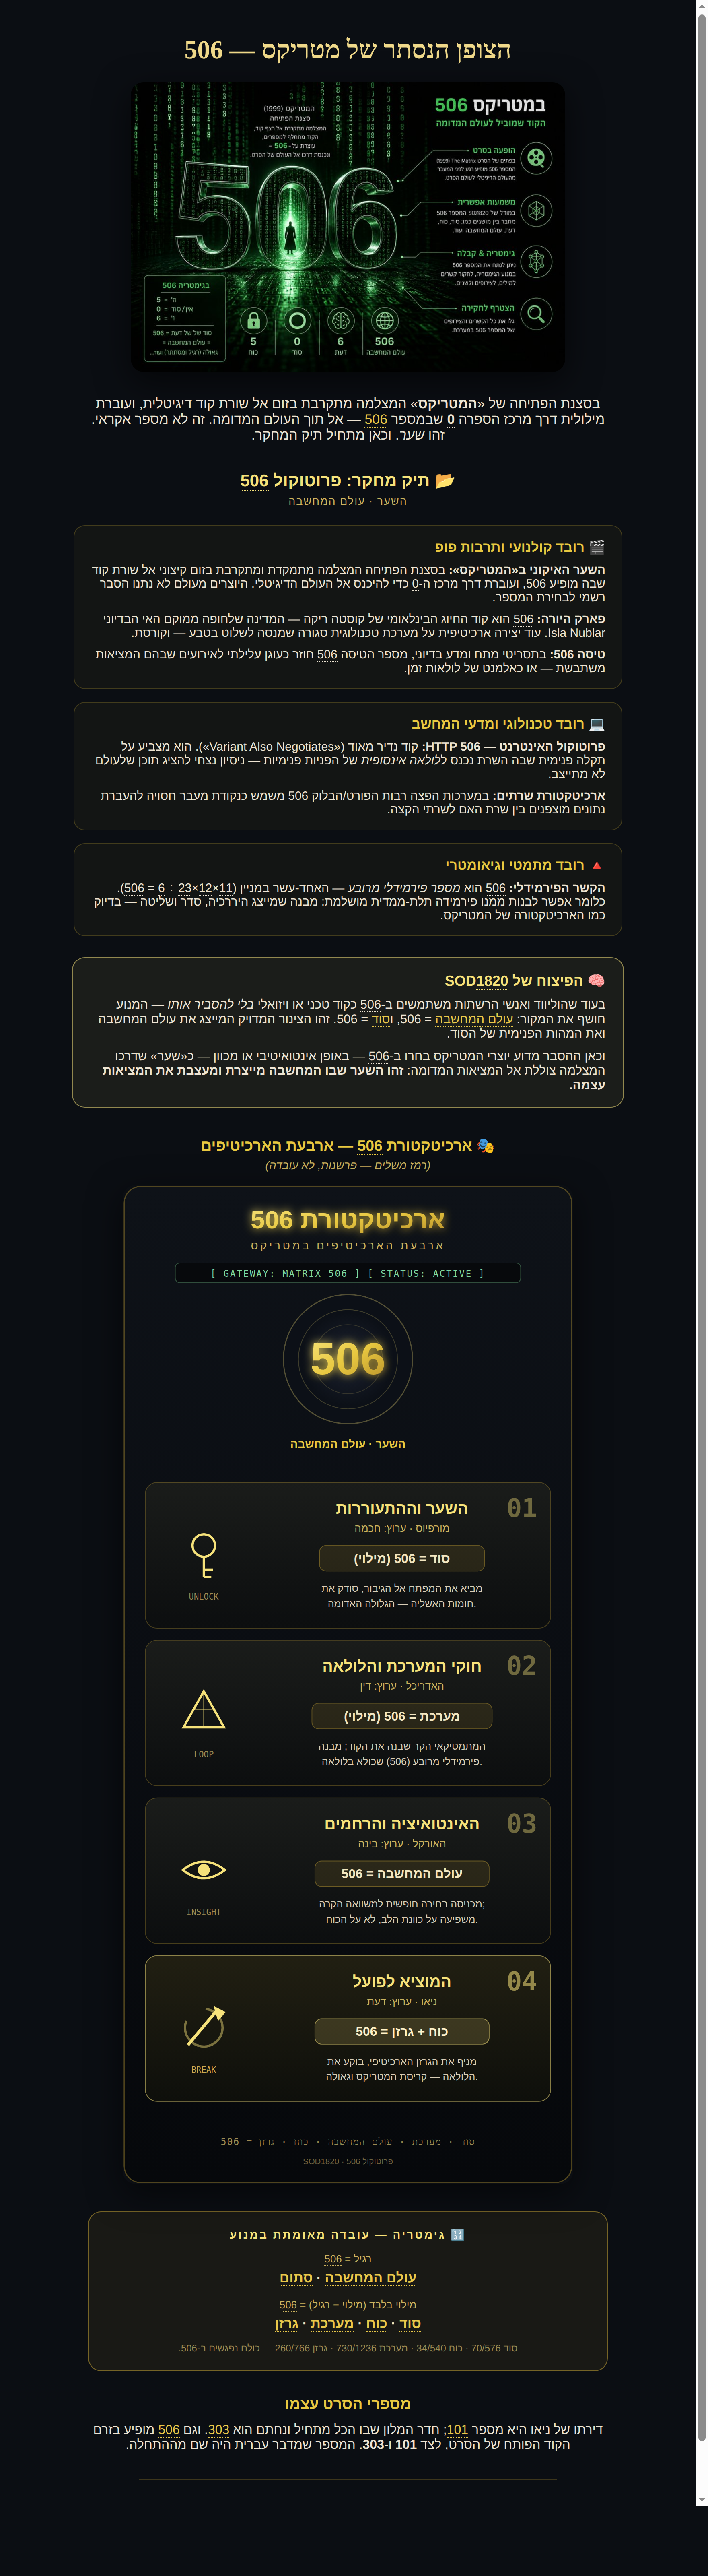
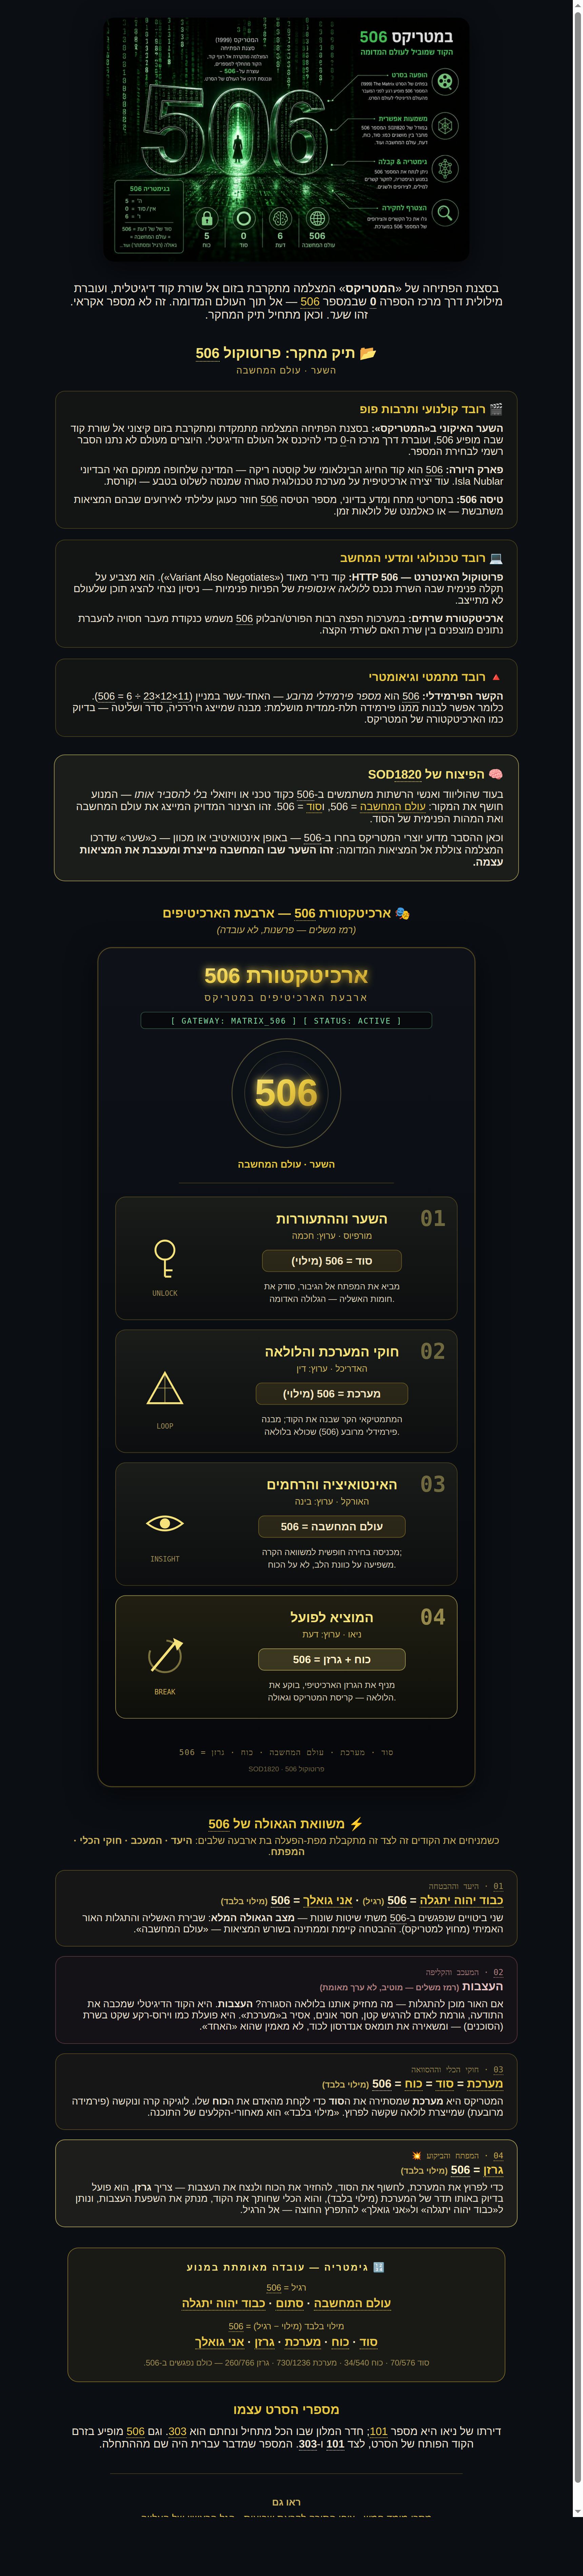
feat(matrix-506): add "משוואת הגאולה של 506" 4-stage section
- New section after the archetypes graphic: target (כבוד יהוה יתגלה=506 regular ·
  אני גואלך=506 miluy-only) → blocker (העצבות, framed as theme only — it does NOT
  equal 506 in any method, closest is miluy-only 526) → tool-laws (מערכת=סוד=כוח=506)
  → key (גרזן=506).
- Gematria box extended: regular cluster +כבוד יהוה יתגלה, miluy-only +אני גואלך.
- All verified in engine; honesty preserved (no false 506 claim for העצבות).
- Still <style>-free (inline + <img>).

Claude-Session: https://claude.ai/code/session_01Uf6S9qoPfT249NCmHZ1m6s

diff --git a/docs/drafts/matrix-506/full-content.html b/docs/drafts/matrix-506/full-content.html
@@ -35,15 +35,43 @@
 <p style="font-size:14px;color:#cbb25e;max-width:640px;margin:0 auto 16px;text-align:center"><em>(רמז משלים — פרשנות, לא עובדה)</em></p>
 <div style="text-align:center;margin:6px 0 26px"><img src="https://linswmnnkjxvweumprav.supabase.co/storage/v1/object/public/gallery/posts/matrix-506-archetypes-20260626081804.svg" alt="ארכיטקטורת 506 — מורפיוס (סוד), האדריכל (מערכת), האורקל (עולם המחשבה), ניאו (כוח + גרזן)" style="max-width:560px;width:100%;border-radius:16px;box-shadow:0 12px 42px rgba(0,0,0,0.55)" /></div>
 
+<h3 style="color:#e8c840;margin:38px 0 6px;text-align:center">⚡ משוואת הגאולה של 506</h3>
+<p style="font-size:14.5px;color:#cbb25e;max-width:640px;margin:0 auto 18px;text-align:center">כשמניחים את הקודים זה לצד זה מתקבלת מפת‑הפעלה בת ארבעה שלבים: <strong>היעד · המעכב · חוקי הכלי · המפתח</strong>.</p>
+
+<div style="max-width:640px;margin:14px auto;padding:16px 20px;border:1px solid rgba(212,175,55,0.30);border-radius:14px;background:rgba(212,175,55,0.05);text-align:right">
+  <div style="font-size:12px;font-family:monospace;color:#9c8a52;margin-bottom:4px">01 · היעד וההבטחה</div>
+  <div style="font-size:17px;font-weight:800;color:#f3e6c0;margin-bottom:8px"><a href="/beit-midrash?w=כבוד יהוה יתגלה">כבוד יהוה יתגלה</a> = 506 <span style="font-size:12.5px;color:#cbb25e">(רגיל)</span> · <a href="/beit-midrash?w=אני גואלך">אני גואלך</a> = 506 <span style="font-size:12.5px;color:#cbb25e">(מילוי בלבד)</span></div>
+  <p style="font-size:14.5px;color:#ede4d3;margin:0">שני ביטויים שנפגשים ב‑506 משתי שיטות שונות — <strong>מצב הגאולה המלא</strong>: שבירת האשליה והתגלות האור האמיתי (מחוץ למטריקס). ההבטחה קיימת וממתינה בשורש המציאות — «עולם המחשבה».</p>
+</div>
+
+<div style="max-width:640px;margin:14px auto;padding:16px 20px;border:1px solid rgba(150,90,90,0.45);border-radius:14px;background:rgba(120,60,60,0.10);text-align:right">
+  <div style="font-size:12px;font-family:monospace;color:#b08080;margin-bottom:4px">02 · המעכב והקליפה</div>
+  <div style="font-size:17px;font-weight:800;color:#e6c3c3;margin-bottom:8px">העצבות <span style="font-size:12px;color:#b08080">(רמז משלים — מוטיב, לא ערך מאומת)</span></div>
+  <p style="font-size:14.5px;color:#ede4d3;margin:0">אם האור מוכן להתגלות — מה מחזיק אותנו בלולאה הסגורה? <strong>העצבות</strong>. היא הקוד הדיגיטלי שמכבה את התודעה, גורמת לאדם להרגיש קטן, חסר אונים, אסיר ב«מערכת». היא פועלת כמו וירוס‑רקע שקט בשרת (הסוכנים) — ומשאירה את תומאס אנדרסון לכוד, לא מאמין שהוא «האחד».</p>
+</div>
+
+<div style="max-width:640px;margin:14px auto;padding:16px 20px;border:1px solid rgba(212,175,55,0.30);border-radius:14px;background:rgba(212,175,55,0.05);text-align:right">
+  <div style="font-size:12px;font-family:monospace;color:#9c8a52;margin-bottom:4px">03 · חוקי הכלי וההסוואה</div>
+  <div style="font-size:17px;font-weight:800;color:#f3e6c0;margin-bottom:8px"><a href="/beit-midrash?w=מערכת">מערכת</a> = <a href="/beit-midrash?w=סוד">סוד</a> = <a href="/beit-midrash?w=כוח">כוח</a> = 506 <span style="font-size:12.5px;color:#cbb25e">(מילוי בלבד)</span></div>
+  <p style="font-size:14.5px;color:#ede4d3;margin:0">המטריקס היא <strong>מערכת</strong> שמסתירה את ה<strong>סוד</strong> כדי לקחת מהאדם את ה<strong>כוח</strong> שלו. לוגיקה קרה ונוקשה (פירמידה מרובעת) שמייצרת לולאה שקשה לפרוץ. «מילוי בלבד» הוא מאחורי‑הקלעים של התוכנה.</p>
+</div>
+
+<div style="max-width:640px;margin:14px auto;padding:16px 20px;border:1px solid rgba(246,226,122,0.6);border-radius:14px;background:rgba(246,226,122,0.08);text-align:right">
+  <div style="font-size:12px;font-family:monospace;color:#caa84e;margin-bottom:4px">04 · המפתח והביקוע 💥</div>
+  <div style="font-size:17px;font-weight:800;color:#fff2c8;margin-bottom:8px"><a href="/beit-midrash?w=גרזן">גרזן</a> = 506 <span style="font-size:12.5px;color:#cbb25e">(מילוי בלבד)</span></div>
+  <p style="font-size:14.5px;color:#ede4d3;margin:0">כדי לפרוץ את המערכת, לחשוף את הסוד, להחזיר את הכוח ולנצח את העצבות — צריך <strong>גרזן</strong>. הוא פועל בדיוק באותו תדר של המערכת (מילוי בלבד), והוא הכלי שחותך את הקוד, מנתק את השפעת העצבות, ונותן ל«כבוד יהוה יתגלה» ול«אני גואלך» להתפרץ החוצה — אל הרגיל.</p>
+</div>
+
+
 <div style="max-width:600px;margin:30px auto;padding:20px 22px;border:1px solid rgba(212,175,55,0.5);border-radius:16px;background:rgba(212,175,55,0.07);text-align:center">
   <div style="font-size:14px;letter-spacing:2px;color:#f6e27a;margin-bottom:14px;font-weight:700">🔢 גימטריה — עובדה מאומתת במנוע</div>
   <div style="font-size:13px;color:#cbb25e;margin-bottom:6px">רגיל = 506</div>
   <div style="font-size:17px;color:#f3e6c0;margin-bottom:16px;font-weight:700">
-    <a href="/beit-midrash?w=עולם המחשבה">עולם המחשבה</a> · <a href="/beit-midrash?w=סתום">סתום</a>
+    <a href="/beit-midrash?w=עולם המחשבה">עולם המחשבה</a> · <a href="/beit-midrash?w=סתום">סתום</a> · <a href="/beit-midrash?w=כבוד יהוה יתגלה">כבוד יהוה יתגלה</a>
   </div>
   <div style="font-size:13px;color:#cbb25e;margin-bottom:6px">מילוי בלבד (מילוי − רגיל) = 506</div>
   <div style="font-size:17px;color:#f3e6c0;font-weight:700">
-    <a href="/beit-midrash?w=סוד">סוד</a> · <a href="/beit-midrash?w=כוח">כוח</a> · <a href="/beit-midrash?w=מערכת">מערכת</a> · <a href="/beit-midrash?w=גרזן">גרזן</a>
+    <a href="/beit-midrash?w=סוד">סוד</a> · <a href="/beit-midrash?w=כוח">כוח</a> · <a href="/beit-midrash?w=מערכת">מערכת</a> · <a href="/beit-midrash?w=גרזן">גרזן</a> · <a href="/beit-midrash?w=אני גואלך">אני גואלך</a>
   </div>
   <div style="font-size:12px;color:#9c8a52;margin-top:14px">סוד 70/576 · כוח 34/540 · מערכת 730/1236 · גרזן 260/766 — כולם נפגשים ב‑506.</div>
 </div>